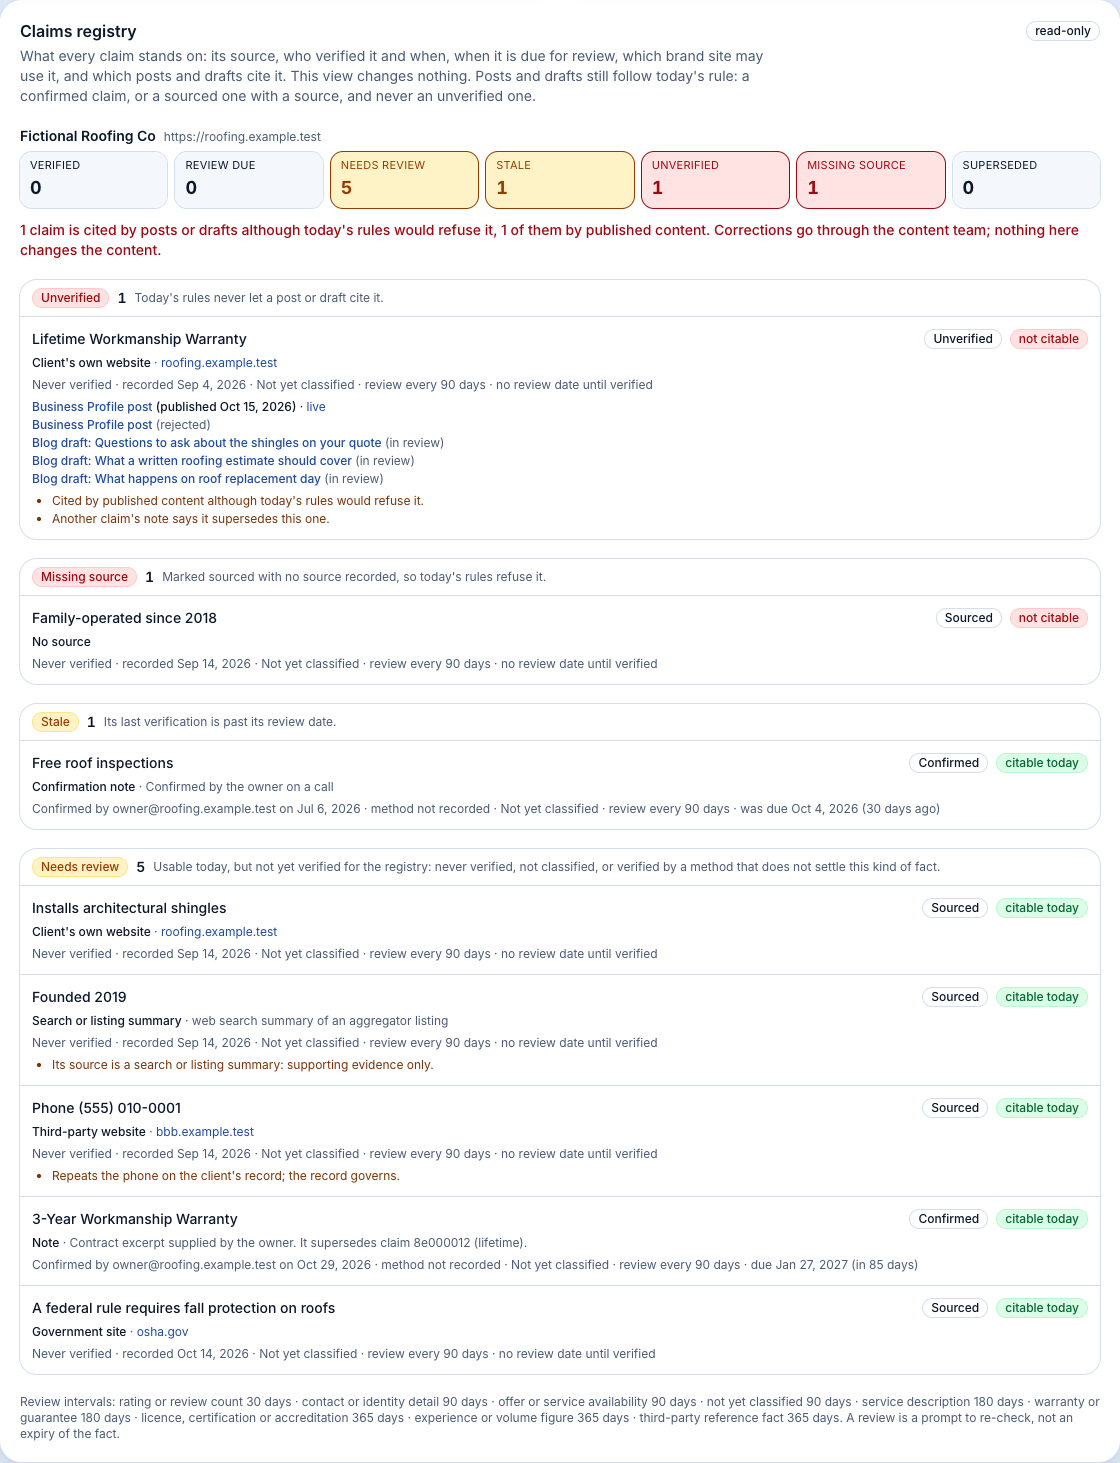
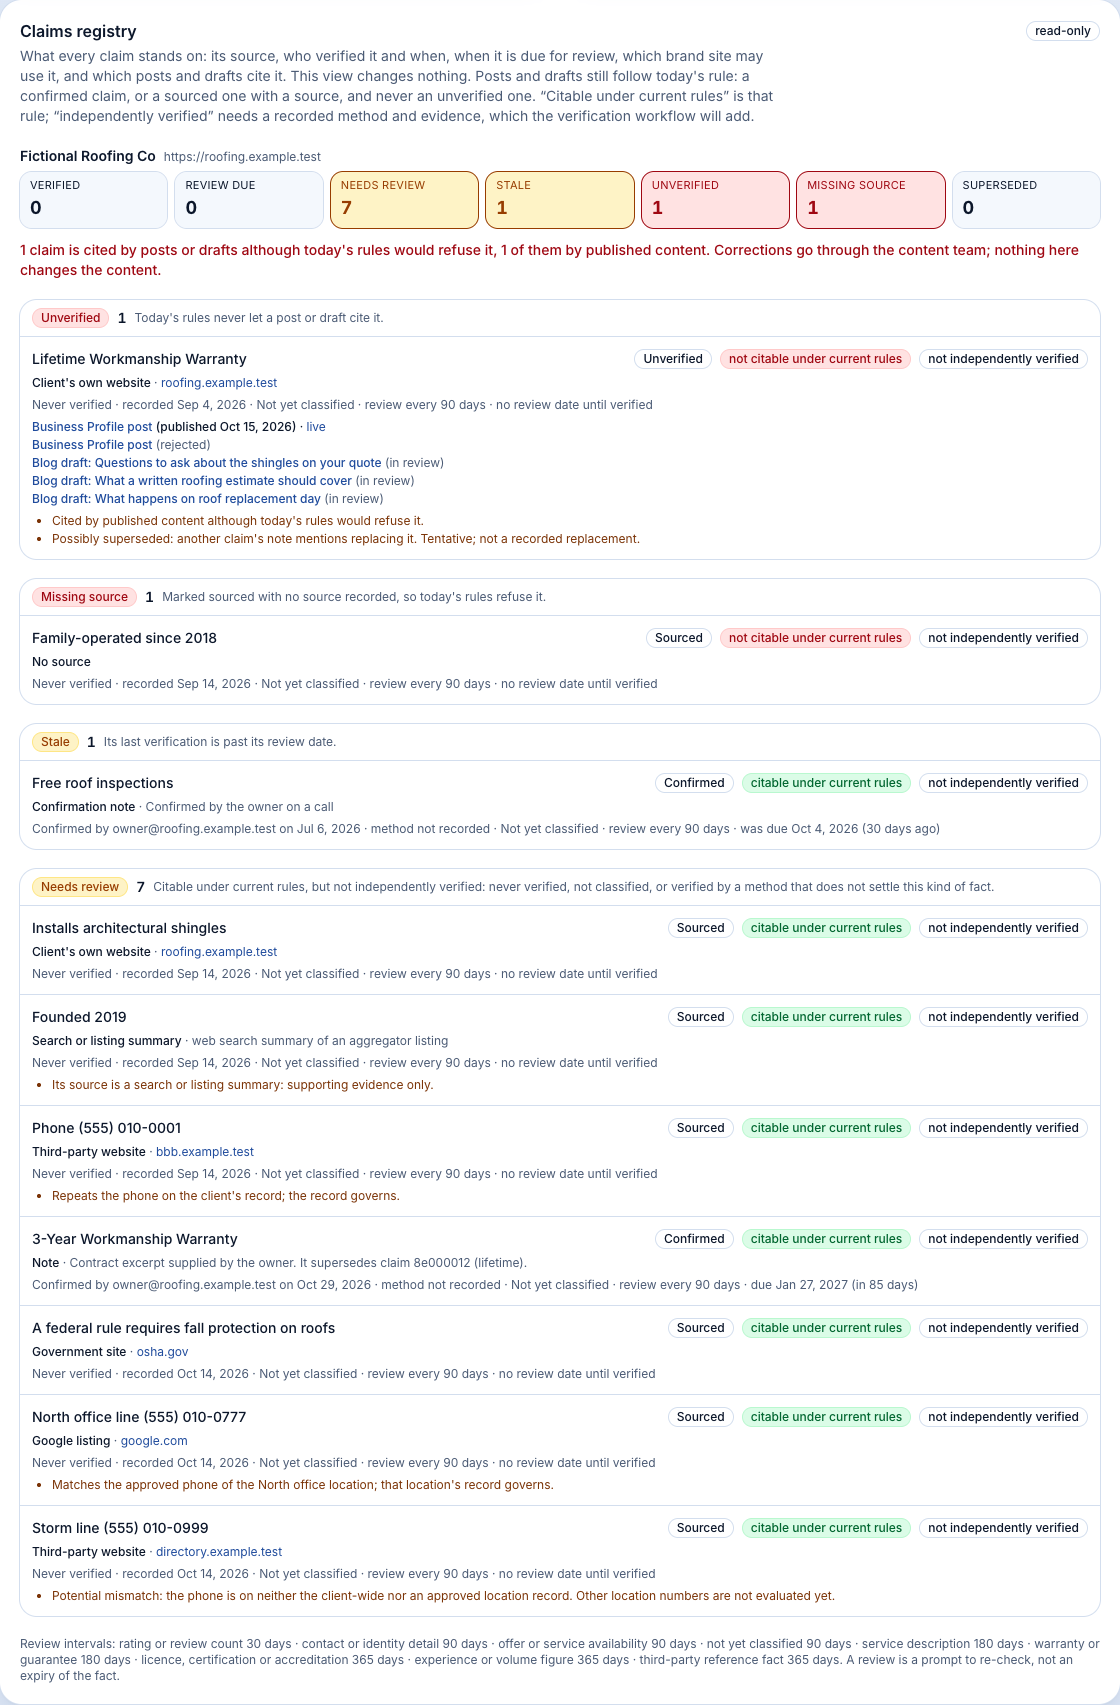
Claims Registry v1, revision 2: lock the new columns until PR2
ChatGPT review 42aca6fb on PR #218.

- claims_registry_guard: no application caller (signed-in teammate,
  Edge Function, worker) may set kind / verification / review_by /
  superseded_by; only a superuser session. Ordinary edits unaffected.
- verification_state is reported apart from legacy_usable; the UI shows
  "citable under current rules" and "not independently verified".
- named_as_superseded becomes the tentative supersession_mentioned.
- Phones are also matched against approved citation_locations numbers;
  anything else is only a potential mismatch.
- Tests, docs and screenshots updated.

diff --git a/src/lib/claim-registry.ts b/src/lib/claim-registry.ts
@@ -3,8 +3,10 @@
 // tests/claim-registry.test.mjs directly, so no "@/" imports.
 //
 // The registry is read-only and changes no gate: what a post or draft may
-// cite is still today's rule (legacy_usable). Unknown figures arrive as null
-// and are shown as "—", never 0.
+// cite is still today's rule (legacy_usable). Whether a claim has been
+// independently verified is a separate answer (verification_state), and no
+// application caller can record a verification yet (PR2). Unknown figures
+// arrive as null and are shown as "—", never 0.
 
 export type ClaimBucket =
   | "superseded"
@@ -62,6 +64,7 @@ export type RegistryClaim = {
   claim: string;
   status: "confirmed" | "sourced" | "unverified";
   legacy_usable: boolean;
+  verification_state: "independently_verified" | "not_independently_verified";
   bucket: ClaimBucket;
   reasons: string[];
   kind: string | null;
@@ -90,7 +93,8 @@ export type RegistryClaim = {
   scope: { programs: string[]; shared: boolean | null; unassigned: boolean | null };
   superseded_by: string | null;
   supersedes: string[];
-  named_superseded_by: string[];
+  supersession_mentioned_by: string[];
+  phone_location: string | null;
   affected: { posts: RegistryPost[]; drafts: RegistryDraft[]; published: number; total: number };
 };
 
@@ -146,7 +150,7 @@ export const BUCKET_HELP: Record<ClaimBucket, string> = {
   missing_source: "Marked sourced with no source recorded, so today's rules refuse it.",
   stale: "Its last verification is past its review date.",
   needs_review:
-    "Usable today, but not yet verified for the registry: never verified, not classified, or verified by a method that does not settle this kind of fact.",
+    "Citable under current rules, but not independently verified: never verified, not classified, or verified by a method that does not settle this kind of fact.",
   due: "Verified; its review date is within 14 days.",
   verified: "Classified, verified by an authoritative method, and current.",
 };
@@ -198,17 +202,20 @@ export const REASON_TEXT: Record<string, string> = {
   due_soon: "Review due within 14 days.",
   never_verified: "Never verified by a teammate; a source URL alone is not verification.",
   unclassified: "Not classified yet, so it is reviewed every 90 days and never counted as verified.",
-  method_unrecorded: "Confirmed before the registry; how it was verified is not recorded.",
+  method_unrecorded: "Confirmed under the current rules; not independently verified (no method or evidence recorded).",
   method_not_authoritative: "Verified by a method that does not settle this kind of fact.",
   changed_since_verified: "Its text or source changed after it was verified.",
   cited_while_unusable: "Cited by content although today's rules would refuse it.",
   published_while_unusable: "Cited by published content although today's rules would refuse it.",
   cited_while_superseded: "Cited by content although it has been replaced.",
-  named_as_superseded: "Another claim's note says it supersedes this one.",
+  supersession_mentioned:
+    "Possibly superseded: another claim's note mentions replacing it. Tentative; not a recorded replacement.",
   conflict_noted: "Its text or source notes a conflict.",
   summary_source: "Its source is a search or listing summary: supporting evidence only.",
   duplicates_structured_phone: "Repeats the phone on the client's record; the record governs.",
-  phone_differs_from_structured: "Names a phone that differs from the client's record.",
+  matches_location_phone: "Matches the approved phone of one location; that location's record governs.",
+  phone_potential_mismatch:
+    "Potential mismatch: the phone is on neither the client-wide nor an approved location record. Other location numbers are not evaluated yet.",
   phone_without_structured_record: "Names a phone, and the client has none on record.",
   unassigned_to_site: "Assigned to no brand site, so no site may use it.",
   shared_across_sites: "Shared by more than one brand site.",
@@ -225,11 +232,28 @@ const SAID_BY_BUCKET: Partial<Record<ClaimBucket, string[]>> = {
 // Said by the verification and review lines (verificationLine, reviewLine).
 const SAID_BY_LINES = ["never_verified", "unclassified", "method_unrecorded"];
 
-export function reasonLines(c: Pick<RegistryClaim, "bucket" | "reasons">): string[] {
+export function reasonLines(c: Pick<RegistryClaim, "bucket" | "reasons"> & { phone_location?: string | null }): string[] {
   const said = [...(SAID_BY_BUCKET[c.bucket] ?? []), ...SAID_BY_LINES];
   // "By published content" says everything "by content" does, and more.
   if (c.reasons.includes("published_while_unusable")) said.push("cited_while_unusable");
-  return c.reasons.filter((r) => !said.includes(r)).map((r) => REASON_TEXT[r] ?? r);
+  return c.reasons
+    .filter((r) => !said.includes(r))
+    .map((r) =>
+      r === "matches_location_phone" && c.phone_location
+        ? `Matches the approved phone of the ${c.phone_location} location; that location's record governs.`
+        : (REASON_TEXT[r] ?? r),
+    );
+}
+
+/** The two separate answers the registry gives: today's citability and independent verification. */
+export function eligibilityLabels(c: Pick<RegistryClaim, "legacy_usable" | "verification_state">): {
+  citable: string;
+  verified: string;
+} {
+  return {
+    citable: c.legacy_usable ? "citable under current rules" : "not citable under current rules",
+    verified: c.verification_state === "independently_verified" ? "independently verified" : "not independently verified",
+  };
 }
 
 /** A count, or "—" when the registry could not know it. Never 0 for unknown. */

diff --git a/src/components/claim-registry.tsx b/src/components/claim-registry.tsx
@@ -9,6 +9,7 @@ import {
   SOURCE_CLASS_LABEL,
   STATUS_LABEL,
   affectedLinks,
+  eligibilityLabels,
   fig,
   groupByBucket,
   reasonLines,
@@ -50,6 +51,8 @@ export function ClaimRegistrySection({
           What every claim stands on: its source, who verified it and when, when it is due for review, which brand
           site may use it, and which posts and drafts cite it. This view changes nothing. Posts and drafts still
           follow today&apos;s rule: a confirmed claim, or a sourced one with a source, and never an unverified one.
+          &ldquo;Citable under current rules&rdquo; is that rule; &ldquo;independently verified&rdquo; needs a recorded
+          method and evidence, which the verification workflow will add.
         </p>
       </CardHeader>
       <CardContent className="space-y-5">
@@ -162,6 +165,7 @@ function ClaimRow({
   programs: RegistryProgram[];
 }) {
   const links = affectedLinks(clientId, c);
+  const eligibility = eligibilityLabels(c);
   const reasons = reasonLines(c);
   const siteName = (slug: string) => programs.find((p) => p.slug === slug)?.name ?? slug;
   return (
@@ -171,8 +175,15 @@ function ClaimRow({
         <Badge variant="outline" className="ml-auto">
           {STATUS_LABEL[c.status]}
         </Badge>
-        <Badge variant="outline" className={toneStyles[c.legacy_usable ? "ok" : "bad"]}>
-          {c.legacy_usable ? "citable today" : "not citable"}
+        <Badge variant="outline" className={toneStyles[c.legacy_usable ? "ok" : "bad"]} data-citable={c.legacy_usable}>
+          {eligibility.citable}
+        </Badge>
+        <Badge
+          variant="outline"
+          className={c.verification_state === "independently_verified" ? toneStyles.ok : undefined}
+          data-verification={c.verification_state}
+        >
+          {eligibility.verified}
         </Badge>
       </div>
       <p className="text-xs text-muted-foreground" data-source={c.source.class}>

diff --git a/docs/claim-registry.md b/docs/claim-registry.md
@@ -2,7 +2,8 @@
 
 COMPASS-2027-ROADMAP W1 (Living Client Intelligence), P1.1a. Executive OS
 task `11454716` (P0.3): proposal `ae049b45`, ChatGPT architecture decision
-`cabb4e9a` (Nov 3 2026). Migration `20261103220000_claim_registry.sql`.
+`cabb4e9a`, PR #218 review `42aca6fb` (Nov 3 2026). Migration
+`20261103220000_claim_registry.sql`.
 
 ## What it is
 
@@ -25,7 +26,7 @@ and after and refuses to commit if any changed.
 | --- | --- |
 | `claim_review_intervals` | One reviewed row per claim kind: how often it is reviewed, and which verification methods are authoritative for it. Team read; changed only by a reviewed migration. |
 | `claims` columns | `kind`, `verification_method`, `verified_at`, `verified_by`, `review_by`, `superseded_by`. All nullable and **empty**: no backfill. |
-| `claims_registry_guard` | Only a signed-in teammate (or the database owner) may set those columns. `verified_by` is stamped from the session (`task_actor()`); a caller cannot name someone else. Edge Functions (service role) and the worker's own SQL are refused (42501); their ordinary claim edits are unaffected. |
+| `claims_registry_guard` | **Locked until PR2.** No application caller may set those columns: not a signed-in teammate (the CRM's forms or a direct PostgREST write), not an Edge Function (service role), not the worker's SQL (42501). Only a superuser session can, which the CRM never is; the sandbox suites use it to seed fixtures. Ordinary claim edits are unaffected. PR2 replaces the lock with guarded, audited, owner-approved writers tied to evidence. |
 | Claim history | The existing `creative_governance_events` store, `subject_type = 'claim'`: created / updated (field diffs) / deleted, actor from the session, append-only, written only by trigger, team read. A deleted claim keeps its history; a deleted client takes its history with it. |
 | `claim_registry(client, today?)` | STABLE, security invoker, team only (42501 otherwise), no execute for anon. |
 | Intelligence tab | "Claims registry" section: per-site counts and the claims grouped by bucket. No control of any kind. |
@@ -60,24 +61,34 @@ One per claim, first match wins:
 2. **unverified**: status unverified.
 3. **missing_source**: sourced with a blank source (today's rule refuses it).
 4. **stale**: a verification whose review date has passed.
-5. **needs_review**: citable today but not verified for the registry. That is: never verified, unclassified, verified by a method that is not authoritative for the kind (a confirmation from before the registry records none), or its text / source changed after verification (a material change asks for re-verification at once).
+5. **needs_review**: citable under current rules but not independently verified. That is: never verified, unclassified, verified by a method that is not authoritative for the kind (a confirmation from before the registry records none), or its text / source changed after verification (a material change asks for re-verification at once).
 6. **due**: verified, review within 14 days.
 7. **verified**: classified, verified by an authoritative method, current.
 
-A sourced claim is never verified because it has a URL. A legacy confirmation
-(`status = confirmed`, `confirmed_on`) counts as a verification date for
-freshness but not as an authoritative verification, so until PR2 classifies
-and verifies claims **no claim is in the verified bucket**. That is the true
-state, not a defect.
+Each claim answers two separate questions (ChatGPT `42aca6fb` B):
+
+- **Citable under current rules** (`legacy_usable`): today's gate rule, unchanged. Existing drafting, approval and publishing behave exactly as before.
+- **Independently verified** (`verification_state`): a recorded, authoritative method. It is never true for a legacy confirmation or a URL alone.
+
+A legacy confirmation (`status = confirmed`, `confirmed_on`) dates freshness
+but reads "method not recorded". With the columns locked, **no claim is
+independently verified** until PR2. That is the true state, not a defect. A
+method token alone will not be verification in PR2 either: it must link
+authoritative evidence specific to the subject and an authorized reviewer
+(`42aca6fb` A).
 
 ## Indicators (never decisions)
 
 - **Source class**: client's own website (any host on `clients.website_url`, `sites.url` or a brand workspace), Google listing, government site, third-party website, search or listing summary, confirmation note, note, none.
 - **Contradictions**:
   - `superseded_by` (the record);
-  - `named_as_superseded`: another claim's text or source says it supersedes this one by its id, or by the id's first eight characters as a word when they name only one of the client's claims;
+  - `supersession_mentioned`: **tentative**. Another claim's text or source says it supersedes this one, by its id or by the id's first eight characters as a word when they name only one of the client's claims. It never sets a bucket, gates nothing and migrates nothing; only `superseded_by` marks a claim superseded (`42aca6fb` C);
   - `conflict_noted`: the text mentions a conflict or inconsistency.
-- **Structured-field precedence (D6)**: a phone in a claim is compared with the client's and its brand workspaces' phones. A match is a duplicate (the record governs); a different number is flagged. Nothing is retired automatically.
+- **Structured-field precedence (D6)**: a phone in a claim is compared with the client-wide numbers (the client and its brand workspaces) and with each approved location's own number (`citation_locations`).
+  - A client-wide match is a duplicate: the record governs.
+  - A location match is that location's number: no conflict.
+  - Anything else is only a **potential mismatch**, because other location-specific numbers (for example a GBP location phone) are not evaluated yet.
+  - Nothing is retired automatically.
 - **Affected content**: posts (`post_claims`) and drafts (`content_draft_claims`) with their review / publish state, published URL and a CRM link. `cited_while_unusable` / `published_while_unusable` mark content standing on a claim today's rule would refuse. Corrections belong to the content team; the registry does not touch content.
 
 ## Site programs (BHG)

diff --git a/AGENTS.md b/AGENTS.md
@@ -72,9 +72,15 @@ each claim on the Intelligence tab.
   - Nothing is verified until PR2 classifies and verifies it by a method
     authoritative for its kind (`claim_review_intervals`, ChatGPT D1 / D2).
   - A URL alone never verifies a claim.
-- **Who may set the new columns:** only a signed-in teammate
-  (`claims_registry_guard`), and `verified_by` is stamped from the session.
-  Edge Functions and the worker get 42501.
+- **The new columns are locked until PR2** (`claims_registry_guard`,
+  ChatGPT review `42aca6fb`). No signed-in teammate, Edge Function, worker or
+  PostgREST caller may set them (42501); only a superuser session can.
+  Citable under current rules (`legacy_usable`) is reported apart from
+  independently verified (`verification_state`).
+- **Indicators only:** an 8-character id in another claim's note is a
+  tentative `supersession_mentioned`. A phone matching an approved
+  `citation_locations` number is that location's; any other number is only a
+  potential mismatch.
 - **BHG:** one program per brand workspace (`claim_ids`). Shared and
   unassigned claims are labelled. A draft workspace's counts are null, never
   0.
